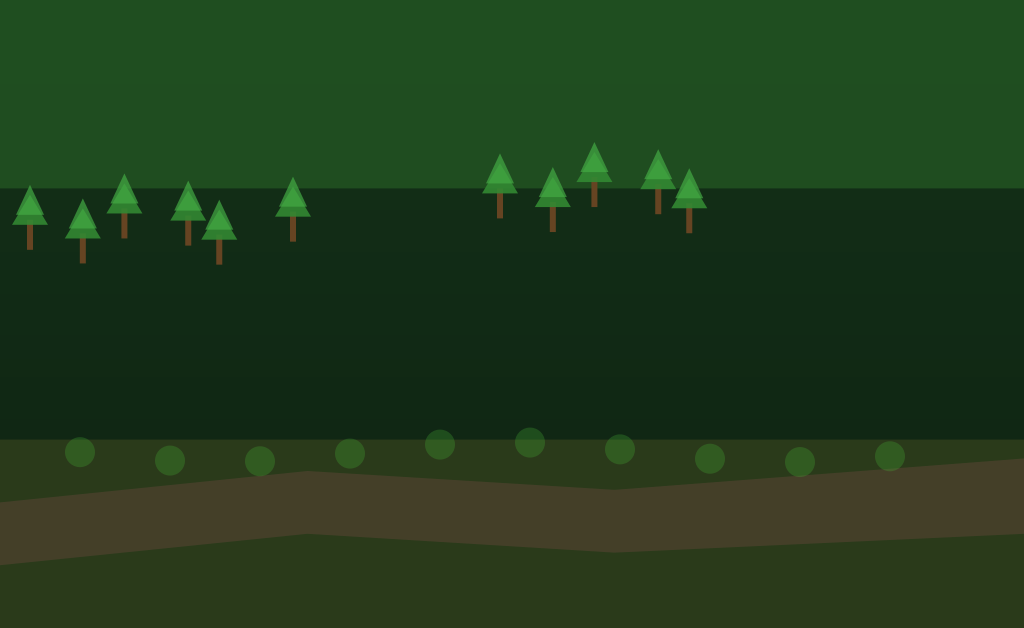
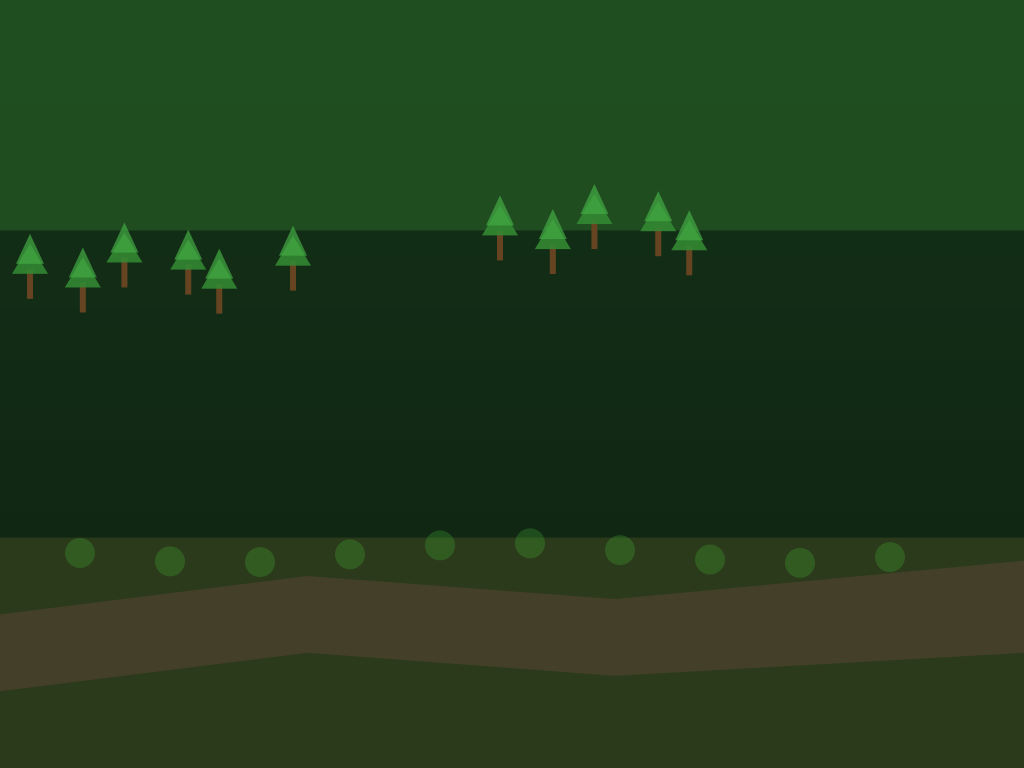
Fix background gap, bigger labels, Makefile, mine door alignment
- Backgrounds now full 768px height (UI bar draws on top, no gap)
- Character name labels: 14px (was 11px), hotspot labels: 16px (was 13px)
- Mine entrance: door frame properly aligned with tunnel opening
- Swap buttons: Map left, Config right
- Add Makefile with targets: art, build, dev, screenshots, i18n, push, clean
- I18n preloaded in BootScene (fixes translation key leaks)
- Dialogue panel larger (350px), text 24px, choices 22px

diff --git a/src/scenes/LocationScene.js b/src/scenes/LocationScene.js
@@ -57,11 +57,9 @@ export class LocationScene extends Phaser.Scene {
 
   drawBackground(location) {
     const { width, height } = this.scale;
-    const uiH = 140;
 
-    // Pre-rendered background image — scale to fill scene area above UI bar
-    const bg = this.add.image(0, 0, `bg-${this.locationId}`).setOrigin(0, 0);
-    bg.setDisplaySize(width, height - uiH);
+    // Pre-rendered background image — full canvas size, UI bar draws on top
+    this.add.image(0, 0, `bg-${this.locationId}`).setOrigin(0, 0);
 
     // Location name watermark (localized)
     const locName = I18n.t(`locations.${this.locationId}.name`) !== `locations.${this.locationId}.name`

diff --git a/scripts/generate-backgrounds.js b/scripts/generate-backgrounds.js
@@ -12,7 +12,7 @@ const OUT_DIR = join(__dirname, '..', 'public', 'assets', 'backgrounds');
 mkdirSync(OUT_DIR, { recursive: true });
 
 const W = 1024;
-const H_SCENE = 628; // 768 - 140 (UI bar)
+const H_SCENE = 768; // Full height — UI bar draws on top
 const H_FULL = 768;
 
 function save(canvas, name) {
